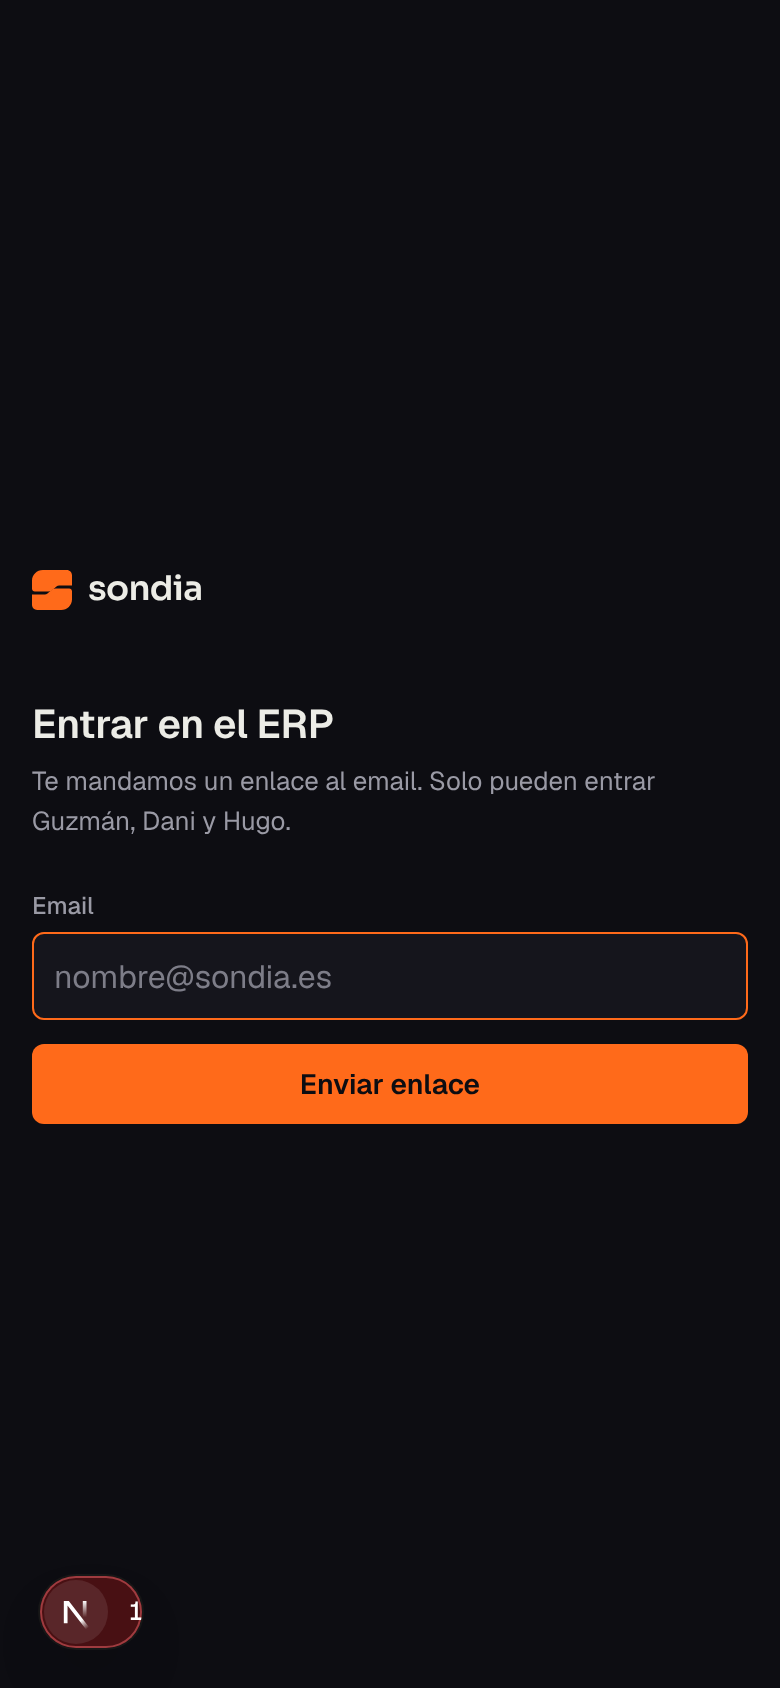
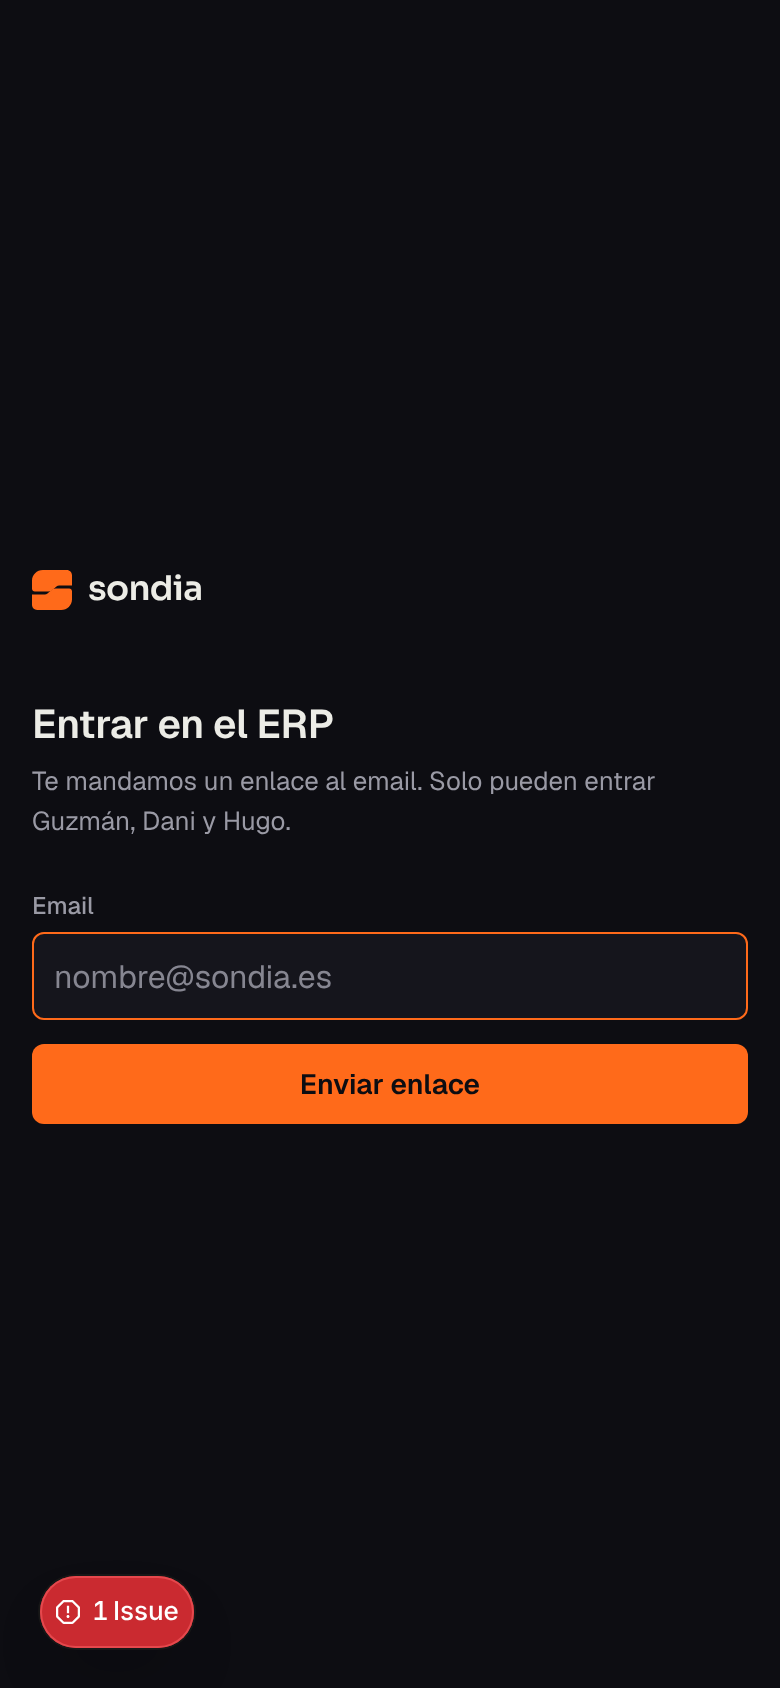
Fase 1: revisión de capturas, contraste, móvil y documentación
- Texto tenue con contraste ≥ 4,5:1 en los dos temas.
- Barras de «Mi semana» más ligeras; «Yo» primero en Horas.
- Ajustes sin desbordamiento horizontal en el móvil (con prueba).
- Fechas en dd/mm/aaaa en las pruebas; capturas de primer uso.
- DESIGN.md con la escala tipográfica real; README con la puesta en marcha.

Claude-Session: https://claude.ai/code/session_01JfZC4e58YhVZypFKQGSKAC

Changed region(s): [[0.0308, 0.9242, 0.2462, 0.9858]]

diff --git a/src/app/(app)/horas/page.tsx b/src/app/(app)/horas/page.tsx
@@ -66,7 +66,8 @@ export default async function HorasPage({ searchParams }: PageProps<"/horas">) {
   };
 
   const personaTabs = [
-    ...members.map((m) => ({ id: m.id, label: m.id === me.id ? "Yo" : m.short_name })),
+    { id: me.id, label: "Yo" },
+    ...members.filter((m) => m.id !== me.id).map((m) => ({ id: m.id, label: m.short_name })),
     { id: "equipo", label: "Equipo" },
   ];
 
@@ -149,8 +150,10 @@ export default async function HorasPage({ searchParams }: PageProps<"/horas">) {
             ) : selected?.id === me.id ? (
               <Empty title={isCurrentWeek ? "Aún no has apuntado horas esta semana" : "No apuntaste horas esta semana"}>
                 Escribe la duración arriba (<span className="num">1,5</span>, <span className="num">1h30</span> o{" "}
-                <span className="num">90m</span>), elige la categoría y pulsa Enter. Desde cualquier pantalla puedes
-                pulsar <kbd className="num">H</kbd> o usar el cronómetro.
+                <span className="num">90m</span>), elige la categoría y pulsa «Apuntar».{" "}
+                <span className="max-md:hidden">
+                  Desde cualquier pantalla puedes pulsar <kbd className="num">H</kbd> o usar el cronómetro.
+                </span>
               </Empty>
             ) : (
               <Empty title={selected ? `${selected.short_name} no tiene horas esta semana` : "Nadie ha apuntado horas esta semana"} />
@@ -191,7 +194,7 @@ export default async function HorasPage({ searchParams }: PageProps<"/horas">) {
           <section aria-labelledby="equipo-horas">
             <SectionHeading id="equipo-horas" title="Equipo" />
             <ul className="flex flex-col">
-              {members.map((m) => {
+              {[...members].sort((a, b) => Number(b.id === me.id) - Number(a.id === me.id)).map((m) => {
                 const done = byMember.get(m.id) ?? 0;
                 const goal = m.weekly_hours_goal * 60;
                 const expected = expectedMinutes(m.weekly_hours_goal, week, today);

diff --git a/src/app/(app)/page.tsx b/src/app/(app)/page.tsx
@@ -161,7 +161,7 @@ export default async function MiEspacioPage() {
                   <li key={t.id} className="flex min-h-10 items-center gap-1 border-b border-line pr-1">
                     <TaskCheck id={t.id} title={t.title} done={false} />
                     <span className="min-w-0 flex-1 py-2">
-                      <span className="block truncate text-[13px]">{t.title}</span>
+                      <span className="line-clamp-2 block text-[13px] md:truncate">{t.title}</span>
                       {t.client ? <span className="block truncate text-[12px] text-muted">{t.client.name}</span> : null}
                     </span>
                     {t.priority === "alta" ? <Chip>Alta</Chip> : null}
@@ -226,9 +226,13 @@ export default async function MiEspacioPage() {
                 const future = d > today;
                 return (
                   <div key={d} role="listitem" className="flex flex-col items-center gap-1.5" aria-label={`${formatShortDate(d)}: ${m ? formatHours(m) : "sin horas"}`}>
-                    <div className="flex h-16 w-full items-end overflow-hidden rounded-xs bg-surface-sunken">
+                    <div className="flex h-16 w-full items-end justify-center border-b border-line">
                       <div
-                        className={cx("w-full", m ? "bg-text" : "", future && "opacity-0")}
+                        className={cx(
+                          "w-full max-w-[20px] rounded-t-xs",
+                          isToday ? "bg-text" : "bg-muted/45",
+                          future && "opacity-0",
+                        )}
                         style={{ height: `${(m / maxDay) * 100}%` }}
                       />
                     </div>

diff --git a/e2e/capturas.spec.ts b/e2e/capturas.spec.ts
@@ -31,6 +31,7 @@ async function context(browser: Browser, vp: (typeof VIEWPORTS)[number], scheme:
 }
 
 test("capturas", async ({ browser }) => {
+  test.skip(Boolean(process.env.CAPTURAS_VACIO), "Con CAPTURAS_VACIO solo van las de primer uso");
   test.setTimeout(240_000);
   for (const vp of VIEWPORTS) {
     for (const scheme of SCHEMES) {
@@ -63,5 +64,25 @@ test("capturas", async ({ browser }) => {
       await page.screenshot({ path: `${OUT}/registro-rapido-${suffix}.png` });
       await ctx.close();
     }
+  }
+});
+
+// Primer uso: se ejecuta con CAPTURAS_VACIO=1 sobre una base de datos vacía.
+test("capturas de primer uso", async ({ browser }) => {
+  test.skip(!process.env.CAPTURAS_VACIO, "Solo con CAPTURAS_VACIO=1");
+  for (const [vp, scheme] of [
+    [VIEWPORTS[0], "dark"],
+    [VIEWPORTS[1], "light"],
+  ] as const) {
+    const suffix = `${vp.name}-${scheme === "light" ? "claro" : "oscuro"}`;
+    const ctx = await context(browser, vp, scheme);
+    const page = await ctx.newPage();
+    await loginWithMagicLink(page, "hugo@sondia.test");
+    for (const p of PAGES.slice(0, 2)) {
+      await page.goto(p.path);
+      await page.waitForLoadState("networkidle");
+      await page.screenshot({ path: `${OUT}/vacio-${p.name}-${suffix}.png`, fullPage: true });
+    }
+    await ctx.close();
   }
 });

diff --git a/src/app/(app)/ajustes/page.tsx b/src/app/(app)/ajustes/page.tsx
@@ -17,7 +17,7 @@ export default async function AjustesPage() {
   return (
     <>
       <PageHeader title="Ajustes" />
-      <div className="grid gap-4 px-4 py-6 md:px-6 xl:grid-cols-[minmax(0,1fr)_minmax(0,1fr)]">
+      <div className="grid grid-cols-1 gap-4 px-4 py-6 md:px-6 xl:grid-cols-[minmax(0,1fr)_minmax(0,1fr)]">
         <Card icon={Users} title="Equipo" description="Quién puede entrar y su objetivo semanal de horas." wide>
           <div className="-mx-4 overflow-x-auto">
             <table className="w-full min-w-[560px] text-[13px]">
@@ -90,7 +90,7 @@ function Card({
   return (
     <section
       aria-labelledby={`card-${title}`}
-      className={`rounded-md border border-line bg-surface p-4 ${wide ? "xl:col-span-2" : ""}`}
+      className={`min-w-0 rounded-md border border-line bg-surface p-4 ${wide ? "xl:col-span-2" : ""}`}
     >
       <div className="mb-4 flex items-start gap-3">
         <Icon className="mt-0.5 size-4 text-muted" aria-hidden />

diff --git a/e2e/overflow.spec.ts b/e2e/overflow.spec.ts
@@ -1,0 +1,15 @@
+import { expect, test } from "@playwright/test";
+import { loginWithMagicLink } from "./helpers";
+
+// Ninguna pantalla puede tener scroll horizontal a 390 px.
+test.use({ viewport: { width: 390, height: 844 }, isMobile: true, hasTouch: true });
+
+test("sin desbordamiento horizontal en el móvil", async ({ page }) => {
+  await loginWithMagicLink(page, "guzman@sondia.test");
+  for (const path of ["/", "/horas", "/ajustes"]) {
+    await page.goto(path);
+    await page.waitForLoadState("networkidle");
+    const overflow = await page.evaluate(() => document.documentElement.scrollWidth - window.innerWidth);
+    expect(overflow, `${path} desborda ${overflow}px`).toBeLessThanOrEqual(0);
+  }
+});

diff --git a/src/app/globals.css b/src/app/globals.css
@@ -17,7 +17,7 @@
   --line-strong: #d4d4cc;
   --text: #0d0d12;
   --text-muted: #5f5f69;
-  --text-faint: #7c7c86;
+  --text-faint: #6b6b75;
   --accent: #ff6a1a;
   --accent-hover: #ff7f3a;
   --on-accent: #0d0d12;
@@ -42,7 +42,7 @@
   --line-strong: #34343f;
   --text: #ececE6;
   --text-muted: #9a9aa5;
-  --text-faint: #7d7d88;
+  --text-faint: #868691;
   --accent: #ff6a1a;
   --accent-hover: #ff7f3a;
   --on-accent: #0d0d12;
@@ -68,7 +68,7 @@
     --line-strong: #34343f;
     --text: #ececE6;
     --text-muted: #9a9aa5;
-    --text-faint: #7d7d88;
+    --text-faint: #868691;
     --accent: #ff6a1a;
     --accent-hover: #ff7f3a;
     --on-accent: #0d0d12;

diff --git a/playwright.config.ts b/playwright.config.ts
@@ -13,6 +13,11 @@ export default defineConfig({
     baseURL: process.env.E2E_BASE_URL ?? "http://localhost:3000",
     locale: "es-ES",
     timezoneId: "Europe/Madrid",
-    launchOptions: process.env.PW_CHROMIUM_PATH ? { executablePath: process.env.PW_CHROMIUM_PATH } : undefined,
+    launchOptions: {
+      args: ["--lang=es-ES"],
+      // Los campos de fecha nativos siguen el idioma del sistema: dd/mm/aaaa.
+      env: { ...process.env, LANG: "es_ES.UTF-8", LANGUAGE: "es_ES" } as Record<string, string>,
+      ...(process.env.PW_CHROMIUM_PATH ? { executablePath: process.env.PW_CHROMIUM_PATH } : {}),
+    },
   },
 });

diff --git a/src/app/(app)/ajustes/settings-controls.tsx b/src/app/(app)/ajustes/settings-controls.tsx
@@ -66,7 +66,7 @@ export function MemberRow({ member, isMe }: { member: Member; isMe: boolean }) {
               inputMode="decimal"
               disabled={pending || !member.active}
               aria-invalid={Boolean(error)}
-              className="num h-7 w-16 text-right"
+              className="num h-7 max-w-16 text-right"
             />
             <span className="text-[12px] text-muted">h</span>
           </span>

diff --git a/next.config.ts b/next.config.ts
@@ -4,6 +4,7 @@ const nextConfig: NextConfig = {
   // App privada: todas las pantallas dependen de quién ha entrado, así que
   // renderizamos en cada petición (modelo clásico, sin Cache Components).
   cacheComponents: false,
+  devIndicators: false,
   turbopack: {
     rules: {
       "*.css": {

diff --git a/DESIGN.md b/DESIGN.md
@@ -14,7 +14,7 @@ colors:
   dark-line-strong: "#34343f"
   dark-text: "#ececE6"
   dark-text-muted: "#9a9aa5"
-  dark-text-faint: "#6e6e79"
+  dark-text-faint: "#868691"
   dark-accent: "#ff6a1a"
   dark-accent-text: "#ff8a4c"
   dark-accent-soft: "#2a1810"
@@ -28,7 +28,7 @@ colors:
   light-line-strong: "#d4d4cc"
   light-text: "#0d0d12"
   light-text-muted: "#5f5f69"
-  light-text-faint: "#8b8b94"
+  light-text-faint: "#6b6b75"
   light-accent: "#ff6a1a"
   light-accent-text: "#b4470f"
   light-accent-soft: "#fff0e6"
@@ -41,18 +41,18 @@ typography:
     letterSpacing: "-0.02em"
   display:
     fontFamily: "Instrument Serif, Georgia, serif"
-    fontSize: "28px"
+    fontSize: "34px"
     fontWeight: 400
     lineHeight: 1.1
   title:
     fontFamily: "Geist, system-ui, sans-serif"
-    fontSize: "18px"
+    fontSize: "15px"
     fontWeight: 600
     lineHeight: 1.3
     letterSpacing: "-0.01em"
   heading:
     fontFamily: "Geist, system-ui, sans-serif"
-    fontSize: "14px"
+    fontSize: "13px"
     fontWeight: 600
     lineHeight: 1.4
   body:
@@ -62,7 +62,7 @@ typography:
     lineHeight: 1.5
   small:
     fontFamily: "Geist, system-ui, sans-serif"
-    fontSize: "13px"
+    fontSize: "12px"
     fontWeight: 400
     lineHeight: 1.45
   label:
@@ -73,7 +73,7 @@ typography:
     letterSpacing: "0.04em"
   figure:
     fontFamily: "Geist Mono, ui-monospace, monospace"
-    fontSize: "24px"
+    fontSize: "22px"
     fontWeight: 500
     lineHeight: 1.1
     fontFeature: "tnum"
@@ -137,7 +137,7 @@ components:
 
 # Design System: SondIA ERP
 
-> Estado: **semilla de marca** (15 oct 2026). Tokens fijados desde la identidad existente de SondIA antes de escribir código. Al cerrar la Fase 1 se revisa en modo escaneo contra lo construido y se completa `.impeccable/design.json`.
+> Estado: revisado al cerrar la Fase 1 (15 oct 2026) contra lo construido. Los tokens viven en `src/app/globals.css`; este documento manda si hay dudas.
 
 ## Overview
 
@@ -160,13 +160,16 @@ Un negro tinta con un punto de violeta, un blanco hueso cálido y un naranja bra
 - **Ink `#0d0d12`**: fondo del tema oscuro y texto principal del claro.
 - **Ember `#ff6a1a`**: botón principal, foco, indicador de navegación activa, avisos (OBV sin redactar, próxima acción vencida, horas por debajo del ritmo). Como relleno lleva siempre texto Ink (6,8:1); **nunca texto blanco sobre naranja** (2,7:1).
 - **Ember como texto**: en oscuro `#ff8a4c` (7,8:1 sobre surface); en claro `#b4470f` (5,2:1 sobre bone). El `#ff6a1a` puro sobre claro no llega a 3:1 y no se usa para texto.
+- **Texto tenue** (placeholders, elementos de fases futuras): `#6b6b75` en claro y `#868691` en oscuro, ≥ 4,5:1 sobre todas las superficies.
 - **Bone `#fafaf7`**: fondo del tema claro.
 - **Positivo** (Hecha, Ganado, objetivo cumplido) y **Peligro** (error, Perdido, «No contactar») son funcionales, poco saturados y nunca compiten con el naranja.
 - Responsables (Guzmán, Dani, Hugo) se distinguen por iniciales en un avatar neutro, no por color.
 
 ## Typography
 
-- **Geist** para toda la interfaz. Escala corta: 18 / 14 / 13, pesos 400 y 600.
+- **Geist** para toda la interfaz. Escala en uso (px): 11 · 12 · 13 · 14 · 15 · 20, pesos 400, 500 y 600. 13 px es el texto de trabajo (filas, botones, campos); 12 px el secundario; 11 px solo etiquetas mono y chips; 15 px el título de página; 20 px el título de acceso. En móvil los campos suben a 16 px para que iOS no haga zoom.
+- **Cifras grandes** (indicadores de Mi espacio): Geist Mono 22 px. No hay números «héroe» más grandes.
+- **Instrument Serif**: el saludo de Mi espacio, 30 px en móvil y 34 px en escritorio.
 - **Geist Mono** para horas, euros, fechas en tablas, números de LP/OBV y etiquetas de estado. Siempre `tabular-nums`.
 - **Instrument Serif** solo en un titular puntual por pantalla como mucho (p. ej. el saludo de Mi espacio). Nunca en tablas ni botones.
 - **Sora** solo en el logotipo «sondia».

diff --git a/README.md b/README.md
@@ -2,10 +2,62 @@
 
 Herramienta interna de SondIA (Guzmán, Dani y Hugo): horas, tareas, LPs y OBVs, clientes y leads, y objetivos semanales.
 
-- `PRODUCT.md`: contexto de producto.
-- `DESIGN.md`: sistema de diseño (semilla de marca).
-- `PROMPT.md`: el encargo original.
-- `datos-iniciales/`: datos reales para el seed.
-- `marca/`, `referencias/`: identidad y referencias de estructura.
+- `PRODUCT.md`: contexto de producto. `DESIGN.md`: sistema de diseño. `docs/propuesta-shape.md`: arquitectura y modelo de datos.
+- `datos-iniciales/`, `marca/`, `referencias/`: material de partida.
+- `docs/capturas/`: capturas de revisión de cada fase (1440 px y 390 px, claro y oscuro).
 
-Stack previsto: Next.js (App Router) + TypeScript + Tailwind + Supabase + Vercel.
+## Estado
+
+| Fase | Contenido | Estado |
+|---|---|---|
+| 1 | Acceso, layout, Mi espacio, Horas, Ajustes de equipo, esquema completo | Hecha |
+| 2 | Tareas y Objetivos semanales | Pendiente |
+| 3 | Pipeline, Leads, ficha de cliente, cobros, importador CSV y seed real | Pendiente |
+| 4 | LPs y OBVs, Inicio del equipo, buscador ⌘K | Pendiente |
+
+## Stack
+
+Next.js 16 (App Router, sin Cache Components) · TypeScript · Tailwind 4 · Supabase (Auth con enlace mágico, Postgres, RLS) · Vercel. Tests: Vitest (reglas), pgTAP (base de datos) y Playwright (extremo a extremo y capturas).
+
+## Desarrollo local
+
+Necesitas Node 22 y Docker.
+
+```bash
+npm install
+npx supabase start          # Postgres, Auth y Mailpit en local
+cp .env.example .env.local  # y pega la PUBLISHABLE_KEY que imprime el comando anterior
+npm run dev                 # http://localhost:3000
+```
+
+El seed local (`supabase/seed.sql`) crea tres miembros de prueba: `guzman@sondia.test`, `dani@sondia.test` y `hugo@sondia.test`. Los emails de acceso no salen de tu ordenador: ábrelos en Mailpit, http://127.0.0.1:54324.
+
+```bash
+npm test            # reglas de negocio (Vitest)
+npm run test:db     # reglas en la base de datos (pgTAP)
+npx playwright test e2e/fase1.spec.ts         # extremo a extremo (con la app en marcha)
+npx playwright test e2e/capturas.spec.ts      # capturas → docs/capturas/fase-1
+npm run typecheck && npm run lint
+```
+
+Si Docker no puede descargar imágenes de `public.ecr.aws`, usa Docker Hub: `SUPABASE_INTERNAL_IMAGE_REGISTRY=docker.io npx supabase start`.
+
+## Puesta en producción (lo que tienes que hacer tú)
+
+1. **Supabase.** Crea un proyecto (región UE, por ejemplo Fráncfort) y aplica las migraciones:
+   ```bash
+   npx supabase link --project-ref TU_REF
+   npx supabase db push
+   ```
+2. **Emails permitidos.** En el SQL Editor de Supabase:
+   ```sql
+   insert into public.members (email, name, short_name, initials, weekly_hours_goal) values
+     ('email-de-guzman@…', 'Guzmán', 'Guzmán', 'G', 25),
+     ('email-de-dani@…',   'Daniel', 'Dani',   'D', 25),
+     ('email-de-hugo@…',   'Hugo',   'Hugo',   'H', 25);
+   ```
+   Solo esos emails pueden pedir el enlace. Después se gestionan desde Ajustes.
+3. **Plantilla del email.** Authentication → Email Templates → *Magic Link* y *Confirm signup*: pega el contenido de `supabase/templates/magic_link.html` (asunto: «Tu enlace para entrar en SondIA»). Así el enlace funciona aunque lo abras en otro navegador y el email trae el código de 6 cifras.
+4. **URLs.** Authentication → URL Configuration: *Site URL* = la URL de Vercel; añade `https://TU-DOMINIO/auth/confirm` a *Redirect URLs*.
+5. **SMTP.** El correo de Supabase por defecto está limitado a unos pocos emails por hora. Configura un SMTP propio (Resend, Brevo o el de vuestro dominio) en Authentication → SMTP.
+6. **Vercel.** Importa el repo y define `NEXT_PUBLIC_SUPABASE_URL`, `NEXT_PUBLIC_SUPABASE_PUBLISHABLE_KEY` y `NEXT_PUBLIC_SITE_URL`.
